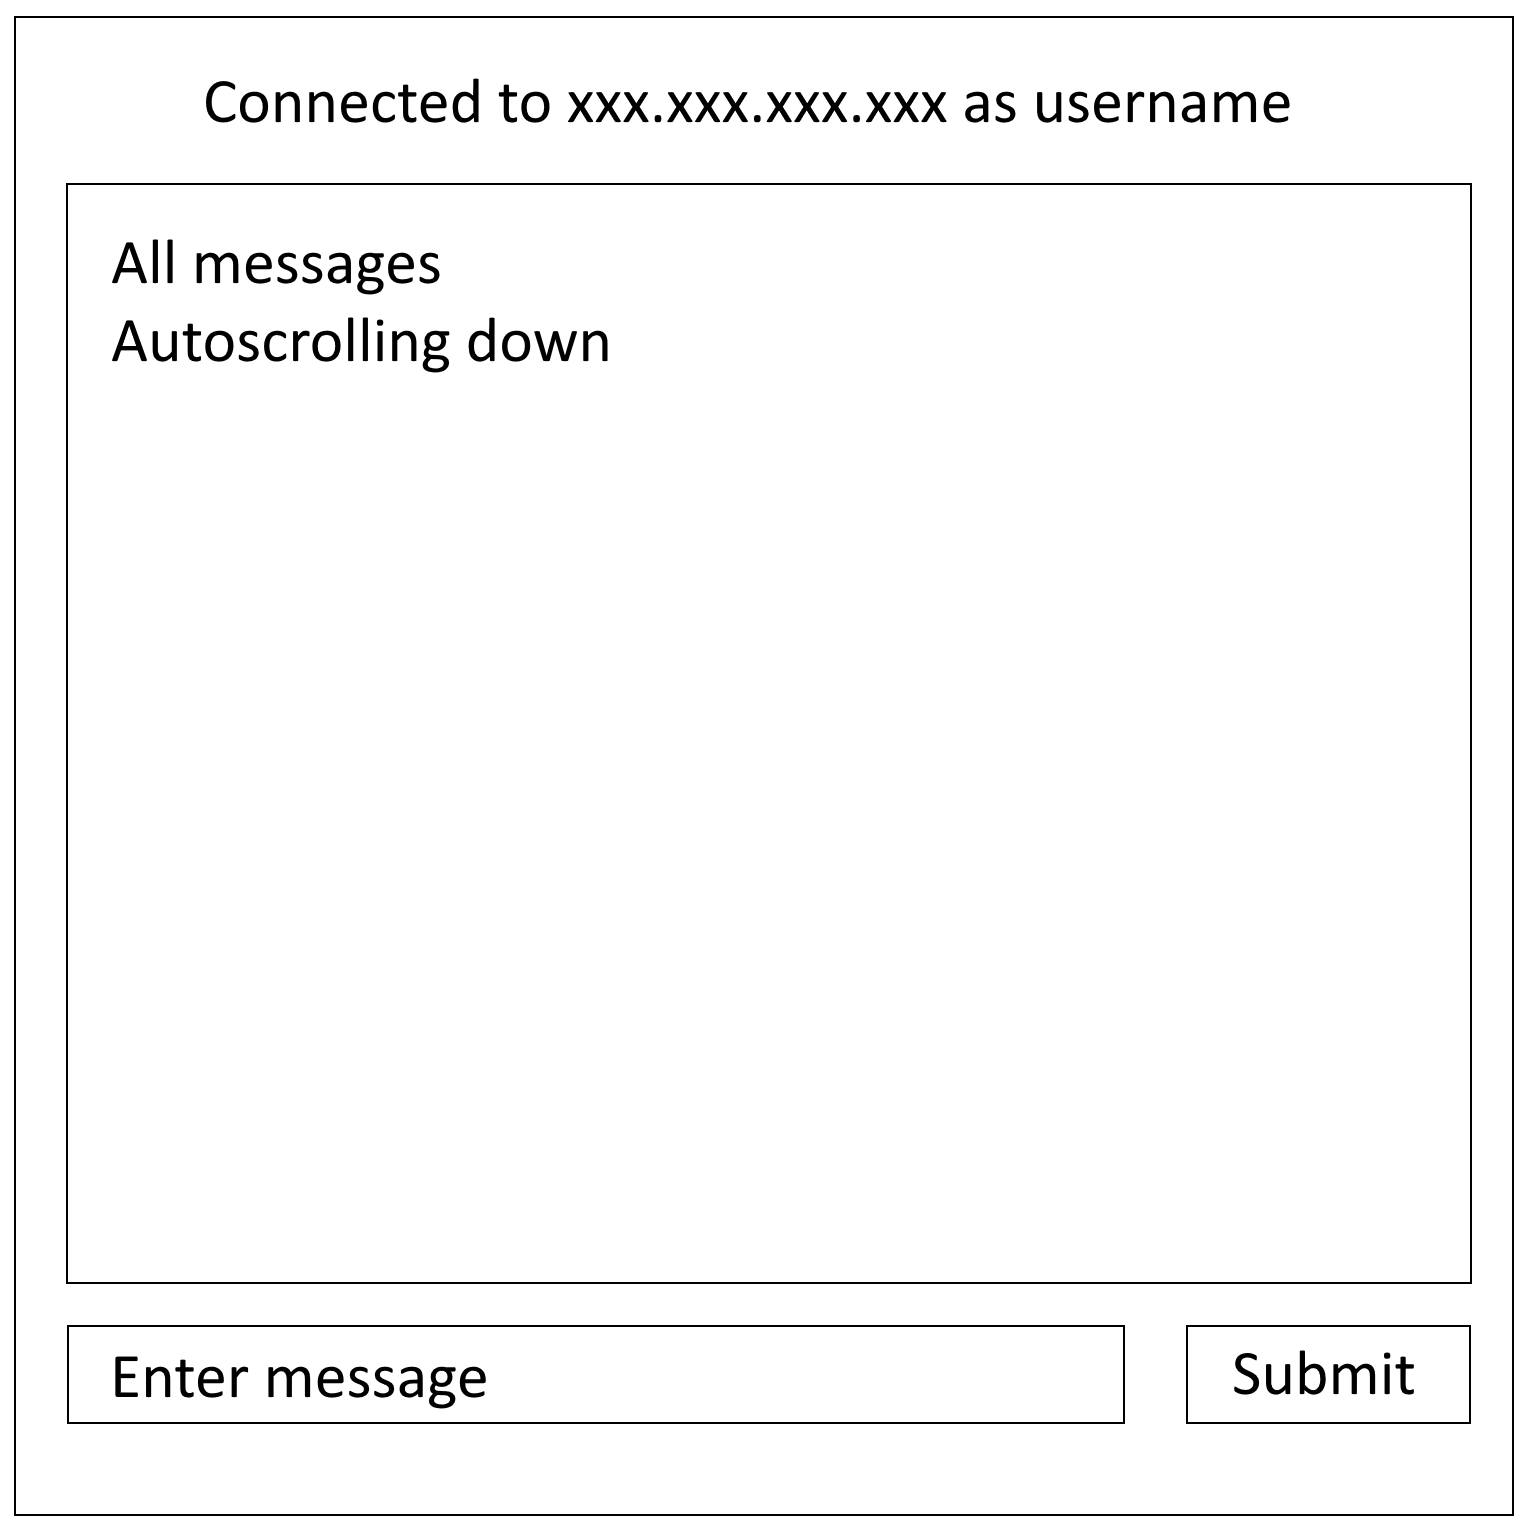
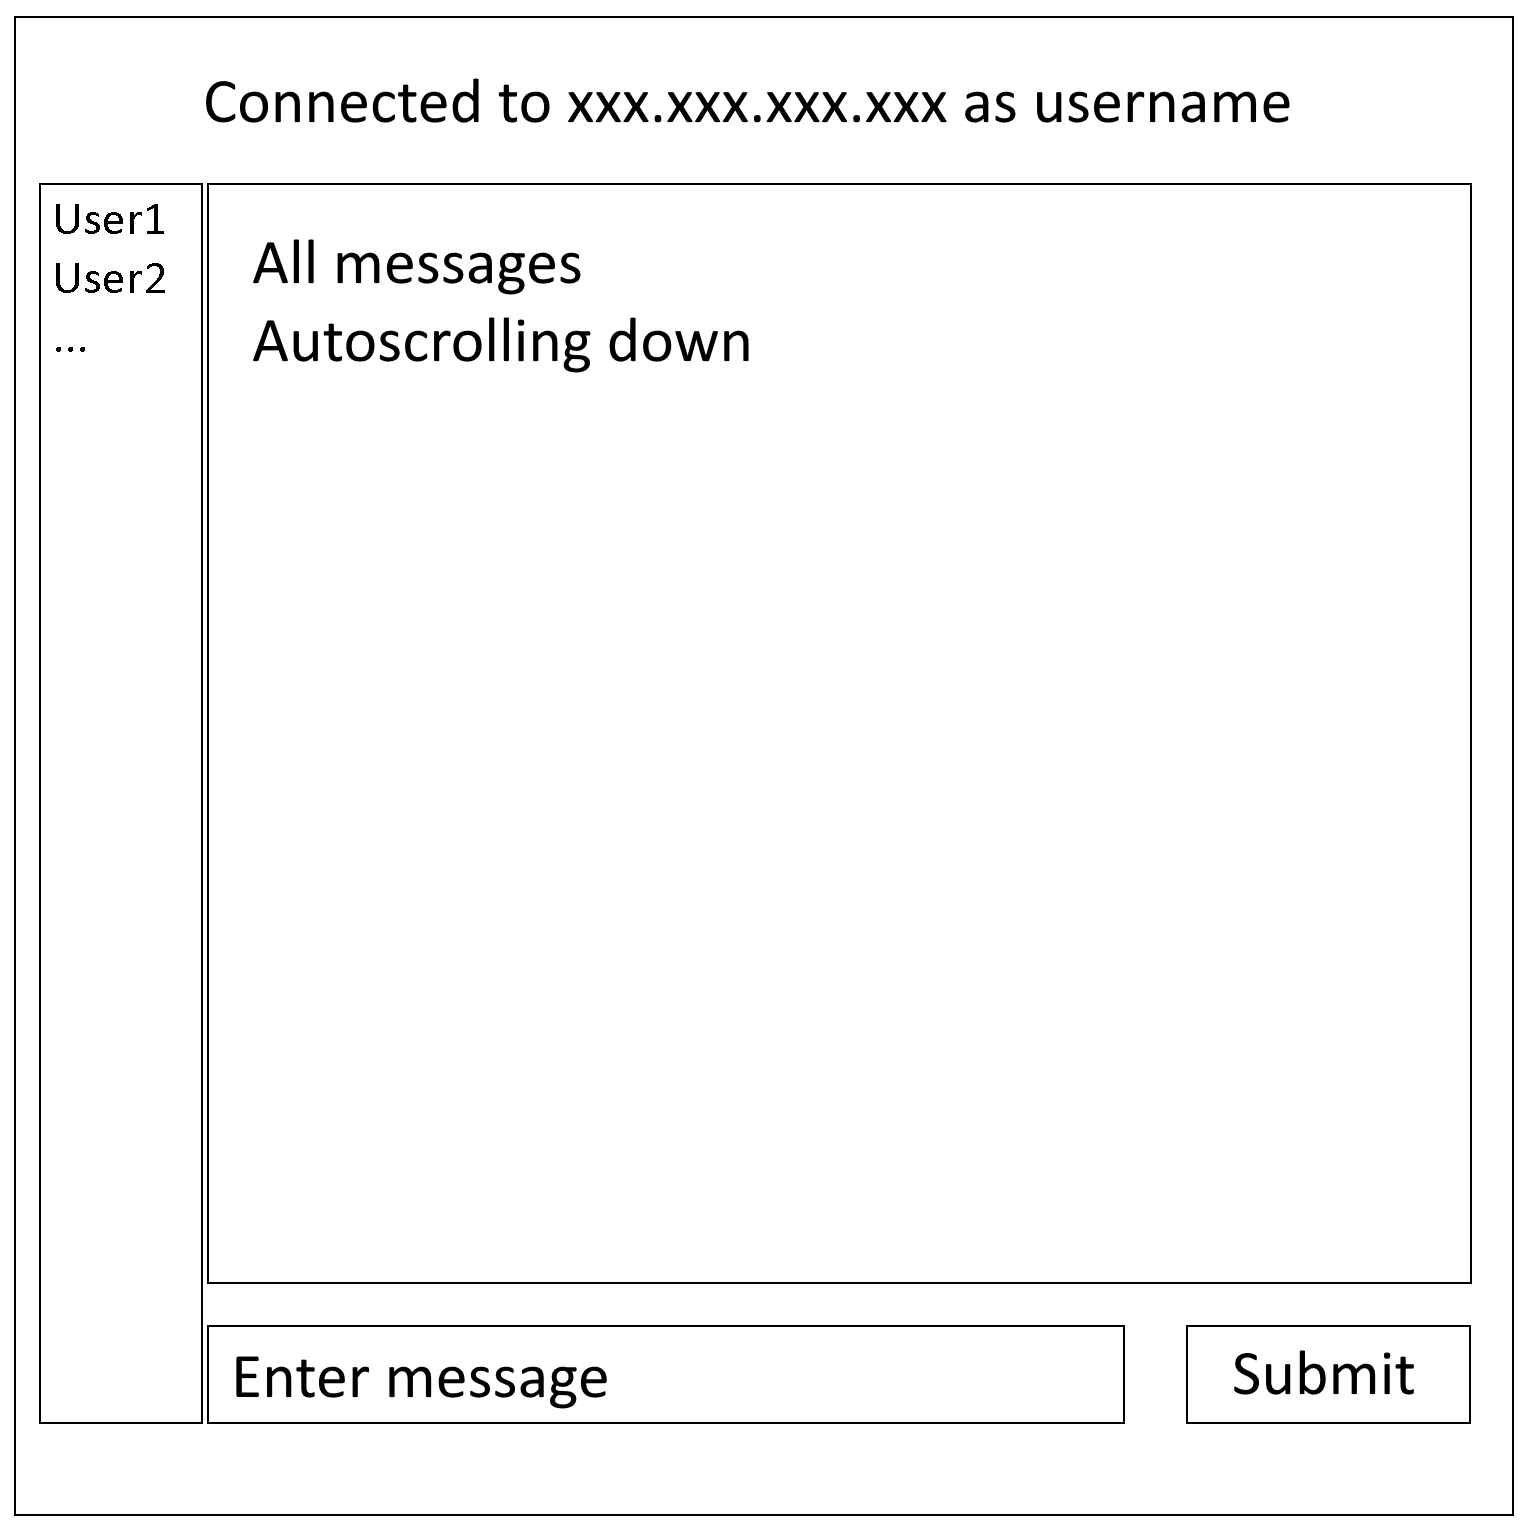
Add client user interface front-end

Changed region(s): [[0.0308, 0.1231, 0.4925, 0.2462], [0.0616, 0.8926, 0.4001, 0.9234]]

diff --git a/src/client/client_gui.py b/src/client/client_gui.py
@@ -1,0 +1,126 @@
+import wx
+
+class ClientLogin(wx.Dialog):
+
+	def __init__(self, parent, title):
+		pass
+
+class ClientGUI(wx.Frame):
+
+	def __init__(self, parent, title):
+		# Initialize superclass.
+		wx.Frame.__init__(self, parent, title=title, size=(1280, 720))
+
+		self.panel = wx.Panel(self)
+		global_sizer = self.get_global_sizer()
+		self.panel.SetSizer(global_sizer)
+
+		# Center and show.
+		self.Center()
+		self.Show()
+
+	def get_global_sizer(self):
+		# Create global sizer.
+		global_sizer = wx.BoxSizer(wx.VERTICAL)
+
+		# Create title textfield.
+		title_text_sizer = self.get_title_textfield_sizer()
+
+		# Get main sizer.
+		main_sizer = self.get_main_sizer()
+
+		# Add components to global sizer.
+		global_sizer.Add(title_text_sizer, proportion=0, \
+			flag=wx.EXPAND | wx.ALL, border=5)
+		global_sizer.Add(main_sizer, proportion=1, flag=wx.EXPAND | wx.ALL, \
+			border=0)
+
+		# Return sizer.
+		return global_sizer
+
+	def get_title_textfield_sizer(self):
+		# Create statictext object.
+		title_textfield = wx.StaticText(self.panel, label="Chat program")
+
+		# Create title text font and apply it to the title textfield.
+		title_font = wx.Font(30, wx.FONTFAMILY_DECORATIVE, \
+			wx.FONTSTYLE_NORMAL, wx.FONTWEIGHT_NORMAL)
+		title_textfield.SetFont(title_font)
+
+		# Create horizontal sizer and add the text at the center.
+		horizontal_sizer = wx.BoxSizer(wx.HORIZONTAL)
+		horizontal_sizer.Add(title_textfield, proportion=1, flag=wx.CENTER)
+
+		# Create vertical sizer and add the horizontal sizer at the center.
+		vertical_sizer = wx.BoxSizer(wx.VERTICAL)
+		vertical_sizer.Add(horizontal_sizer, proportion=1, flag=wx.CENTER)
+
+		# Return sizer.
+		return vertical_sizer
+
+	def get_main_sizer(self):
+		# Create main sizer.
+		main_sizer = wx.BoxSizer(wx.HORIZONTAL)
+
+		# Get connected user sizer.
+		self.connected_users_listbox = wx.ListBox(self.panel, \
+			choices=[], style=wx.LB_SORT)
+
+		# Get chat sizer.
+		chat_sizer = self.get_chat_sizer()
+
+		# Add components to main sizer.
+		main_sizer.Add(self.connected_users_listbox, proportion=0, \
+			flag=wx.EXPAND | wx.ALL, border=5)
+		main_sizer.Add(chat_sizer, proportion=8, \
+			flag=wx.EXPAND | wx.TOP | wx.RIGHT | wx.BOTTOM, border=5)
+
+		# Return sizer.
+		return main_sizer
+
+	def get_chat_sizer(self):
+		# Create chat sizer.
+		chat_sizer = wx.BoxSizer(wx.VERTICAL)
+
+		# Create chat messages window.
+		self.chat_messages_textctrl = wx.TextCtrl(self.panel, \
+			style=wx.TE_READONLY | wx.TE_MULTILINE)
+
+		# Get chat input and send sizer.
+		chat_input_sizer = self.get_chat_input_sizer()
+
+		# Add components to chat sizer.
+		chat_sizer.Add(self.chat_messages_textctrl, proportion=1, \
+			flag=wx.EXPAND | wx.BOTTOM, border=5)
+		chat_sizer.Add(chat_input_sizer, proportion=0, \
+			flag=wx.EXPAND, border=0)
+
+		# Return sizer.
+		return chat_sizer
+
+	def get_chat_input_sizer(self):
+		# Create chat input sizer.
+		chat_input_sizer = wx.BoxSizer(wx.HORIZONTAL)
+
+		# Create chat message input textbox.
+		self.chat_message_input_textbox = wx.TextCtrl(self.panel)
+
+		# Create send message button.
+		self.send_message_button = wx.Button(self.panel, label="Send")
+
+		# Add components to chat input sizer.
+		chat_input_sizer.Add(self.chat_message_input_textbox, proportion=9, \
+			flag=wx.EXPAND | wx.ALL, border=0)
+		chat_input_sizer.Add(self.send_message_button, proportion=1, \
+			flag=wx.EXPAND | wx.LEFT, border=5)
+
+		# Return sizer.
+		return chat_input_sizer
+
+def main():
+	app = wx.App(False)
+	window = ClientGUI(None, "Chat Application")
+	app.MainLoop()
+
+if __name__ == "__main__":
+	main()

diff --git a/test/client/test_client_gui.py b/test/client/test_client_gui.py
@@ -1,0 +1,42 @@
+import unittest
+
+import wx
+
+from src.client.client_gui import ClientLogin, ClientGUI
+
+class TestClientGUI(unittest.TestCase):
+
+	def setUp(self):
+		#app = wx.App(False)
+		#self.client_gui = ClientGUI(parent=None, title="Chat Application")
+		pass
+
+	def test_get_global_sizer_returns_sizer(self):
+		app = wx.App(False)
+		self.client_gui = ClientGUI(parent=None, title="Chat Application")
+		sizer = self.client_gui.get_global_sizer()
+		self.assertIsInstance(sizer, wx.Sizer)
+
+	def test_get_title_textfield_sizer_returns_sizer(self):
+		app = wx.App(False)
+		self.client_gui = ClientGUI(parent=None, title="Chat Application")
+		sizer = self.client_gui.get_title_textfield_sizer()
+		self.assertIsInstance(sizer, wx.Sizer)
+
+	def test_get_main_sizer_returns_sizer(self):
+		app = wx.App(False)
+		self.client_gui = ClientGUI(parent=None, title="Chat Application")
+		sizer = self.client_gui.get_main_sizer()
+		self.assertIsInstance(sizer, wx.Sizer)
+
+	def test_get_chat_sizer_returns_sizer(self):
+		app = wx.App(False)
+		self.client_gui = ClientGUI(parent=None, title="Chat Application")
+		sizer = self.client_gui.get_chat_sizer()
+		self.assertIsInstance(sizer, wx.Sizer)
+
+	def test_get_chat_input_sizer_returns_sizer(self):
+		app = wx.App(False)
+		self.client_gui = ClientGUI(parent=None, title="Chat Application")
+		sizer = self.client_gui.get_chat_input_sizer()
+		self.assertIsInstance(sizer, wx.Sizer)

diff --git a/doc/log.md b/doc/log.md
@@ -10,6 +10,27 @@
 *13:08*: Added chapter `Protocol` to `README.md`. Tested splitting a string by the unit separator character (ascii 31) which worked. This character will be the separator character from now on.<br />
 *13:26*: Added contents to chapter `Milestones` in `README.md`, layout out the general roadmap.<br />
 *13:57*: Read through `README.md` and made sure everything is clear and the quality of the document is where I want it to be.<br />
+*14:02*: Commit changes to branch `main`.<br />
+*14:03*: Stop development.<br /><br />
+
+*14:37*: Start development.<br />
+*14:59*: Just like with the `duolingo-data-gui` project, it took about 25 minutes to figure out how to install `wxpython` for python 3.10. You are supposed to install it (following this [issue](https://github.com/wxWidgets/Phoenix/issues/2089)) by executing the command `python -m pip install --force --pre -f https://wxpython.org/Phoenix/snapshot-builds wxPython`.<br />
+*15:02*: Created files `src/client/client_gui.py` and `test/client/test_client_gui.py`.<br />
+*15:05*: Created basic window in `src/client/client_gui.py`. The creation of the user interface can hardly fail, one thing I could do is to return `False` if any errors where raised at the end during the process, and otherwise return the `wx.Sizer` that was created. Then, in `test/client/test_client_gui.py`, assert `not not result` to be equal to `True` to indicate it got created successfully.<br />
+*15:18*: Installed library `pytest`.<br />
+*15:34*: Updated `doc/images/client_layout.png` to also include a list of connected users.<br />
+*16:27*: Added testing for class `ClientGUI` and started implementing class `ClientGUI`. The layout is complete for the most part, I'm only tweaking the title text size and padding.<br />
+*16:28*: Stop development.<br /><br />
+
+*17:03*: Start development.<br />
+*17:05*: Ticked the first two submilestones of the first milestone about the client front-end.<br />
+*17:15*: Managed to center the title text horizontally and vertically by following [this stackoverflow question](https://stackoverflow.com/questions/27095479/wx-boxsizer-both-vertical-and-horizontal-centered). The title text looks good now and the global sizer function is cleaned up a bit, which is also nice.<br />
+*17:27*: The online users listbox is no longer proportional. Appearantly, after some testing, the listbox grows in width according to the longest strings in the choices list. I also added the style flag `wx.LB_SORT`, which automatically sorts the list alphabetically.<br />
+*17:30*: Stop development.<br /><br />
+
+*21:12*: Start development.<br />
+*21:17*: Made chat message textfield `wx.TE_READONLY` and `wx.TE_MULTILINE`, text can be added by calling the function `AppendText(string)` on it.<br />
+*21:22*: Ticked the third submilestone of the first milestone about the client front-end.<br />
 
 ### 19-02-2022
 *20:12*: Start development.<br />

diff --git a/README.md b/README.md
@@ -41,10 +41,11 @@ The following commands are available (more commands can be added later):
 
 ## Milestones
 - [ ] Client front-end and inner workings.
-	- [ ] Big textfield for messages.
-	- [ ] Small textfield below that for entering messages.
-	- [ ] Button next to that for sending the message.
-	- [ ] Function to add messages to the textfield.
+	- [x] Big textfield for messages.
+	- [x] Small textfield below that for entering messages.
+	- [x] Button next to that for sending the message.
+	- [ ] Function to add a message to the textfield.
+	- [ ] Function to add a user to the online users list.
 - [ ] Send-only server
 	- [ ] Server can send messages to clients on port 6969, but can't receive any messages. Clients can receive the messages on port 6969 and add them to their message list.
 - [ ] Send-receive server
